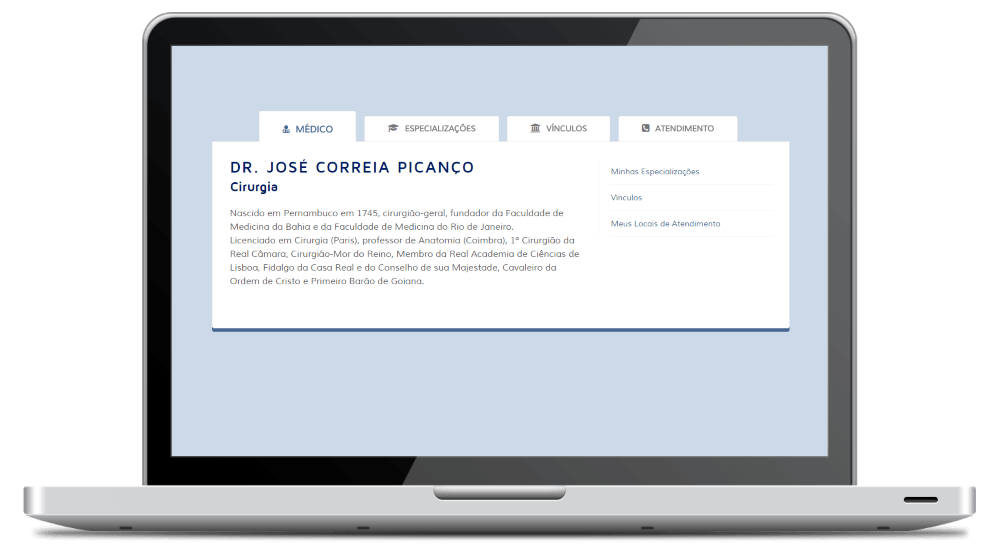
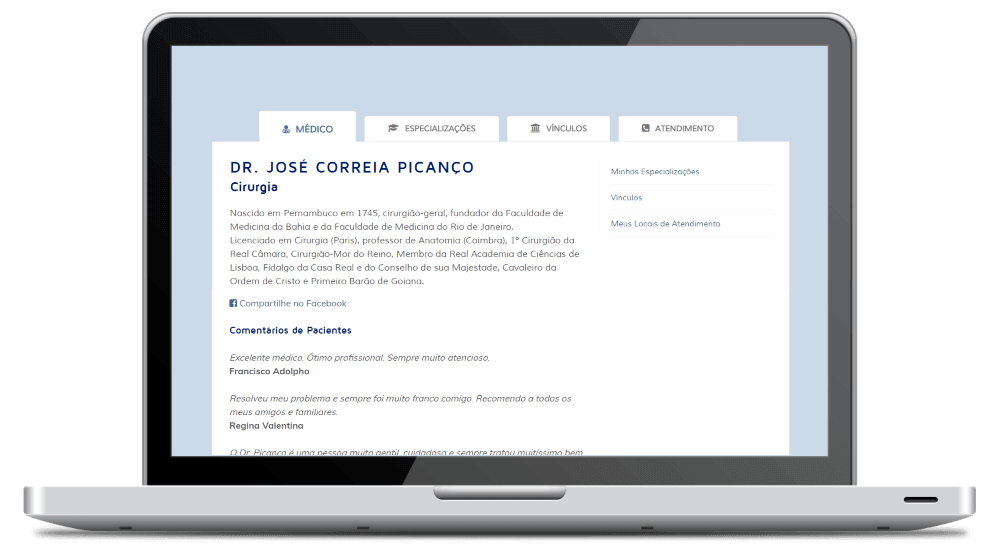
adicionar fb e comentarios

Changed region(s): [[0.186, 0.5799, 0.806, 0.8241], [0.217, 0.5189, 0.341, 0.5494]]

diff --git a/drjosecorreiapicanco.html b/drjosecorreiapicanco.html
@@ -27,6 +27,13 @@
 <meta name="msapplication-TileColor" content="#ffffff">
 <meta name="msapplication-TileImage" content="icons/ms-icon-144x144.png">
 <meta name="theme-color" content="#ffffff">
+
+<meta property="og:url" content="http://www.perfil.med.br/drjosecorreiapicanco.html">
+<meta property="og:title" content="Dr. José Correia Picanço - Cirurgião Geral">
+<meta property="og:description" content="Nascido em Pernambuco em 1745, cirurgião-geral, fundador da Faculdade de Medicina da Bahia e da Faculdade de Medicina do Rio de Janeiro.">
+<meta property="og:image" content="http://www.perfil.med.br/images/thumb.jpg">
+<meta property="og:locale" content="br_pt">
+
   
 <link rel="stylesheet" href="css/font-awesome.min.css">
   <link rel="stylesheet" href="css/normalize.min.css">
@@ -107,8 +114,20 @@
                                 <p>
                                     Nascido em Pernambuco em 1745, cirurgião-geral, fundador da Faculdade de Medicina da Bahia e da Faculdade de Medicina do Rio de Janeiro.<br>Licenciado em Cirurgia (Paris), professor de Anatomia (Coimbra), 1º Cirurgião da Real Câmara, Cirurgião-Mor do Reino, Membro da Real Academia de Ciências de Lisboa, Fidalgo da Casa Real e do Conselho de sua Majestade, Cavaleiro da Ordem de Cristo e Primeiro Barão de Goiana.
 								</p>
+								
+								<a href="https://www.facebook.com/sharer/sharer.php?u=http%3A//www.perfil.med.br/drjosecorreiapicanco.html"><p><i class="fa fa-facebook-square"></i> Compartilhe no Facebook</p></a>
+								
                             </div>
+							<div class="comentarios">
+								<h6>Comentários de Pacientes</h6>
+								<p><em>Excelente médico. Ótimo profissional. Sempre muito atencioso.</em><br><strong>Francisco Adolpho</strong></p>
+								<p><em>Resolveu meu problema e sempre foi muito franco comigo. Recomendo a todos os meus amigos e familiares.</em><br><strong>Regina Valentina</strong></p>
+								<p><em>O Dr. Picanço é uma pessoa muito gentil, cuidadosa e sempre tratou muitíssimo bem de mim e meu marido. Um anjo.</em><br><strong>Dona Amélia</strong></p>
+								
+							</div>
                         </div>
+		
+						
                         <div class="g1">
                             <div class="main-links sidebar">
                                 <ul>
@@ -125,6 +144,9 @@
                                 </ul>
                             </div>
                         </div>
+						
+					
+						
                         <div class="break"></div>
                        <!-- <div class="atendimento-info">
                           <div class="g1">
@@ -283,6 +305,8 @@
                             </div>
                          </div>
                        </div>
+					   <div class="break"></div>
+                        
                        
                        <div class="break"></div>
                        
